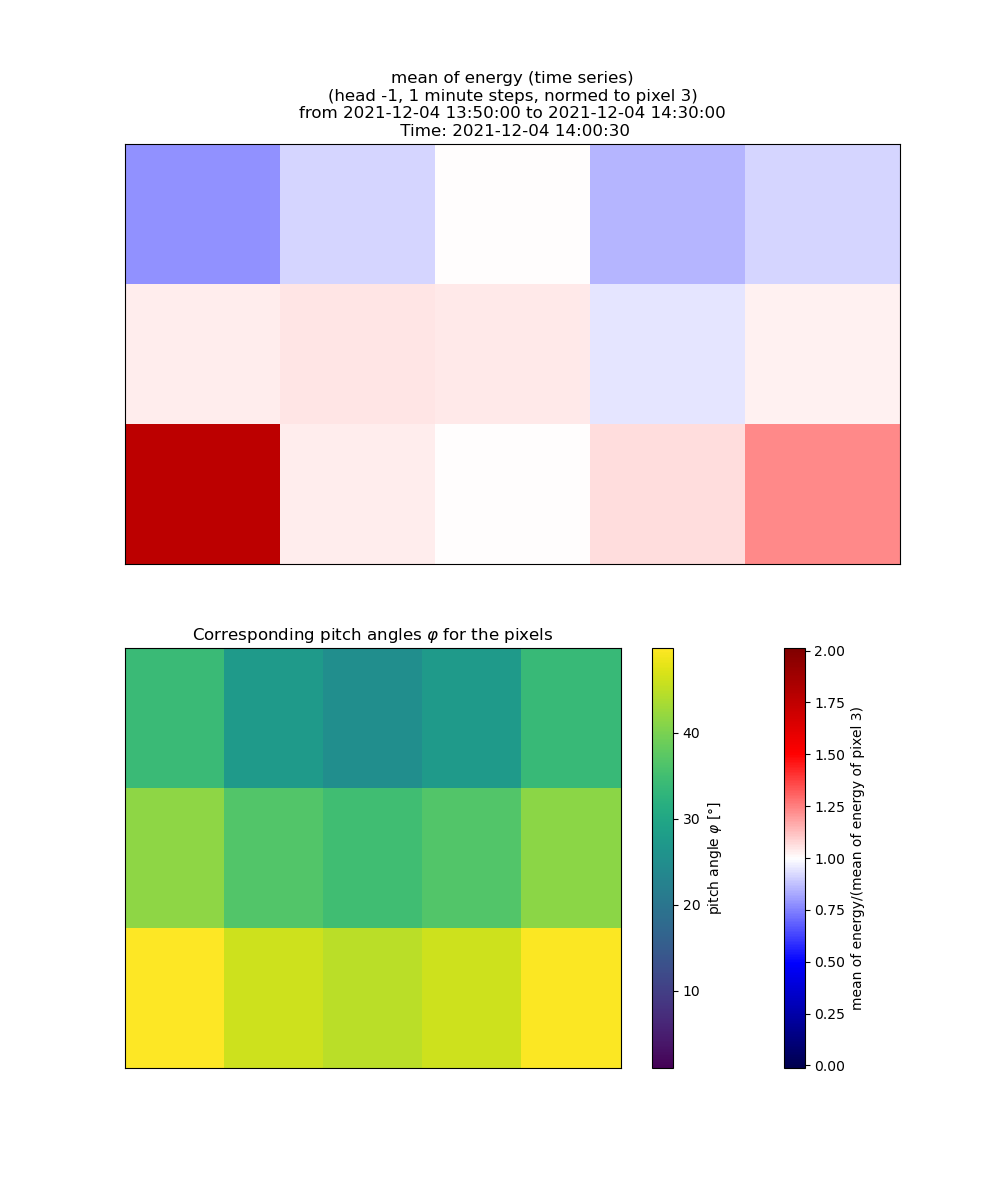
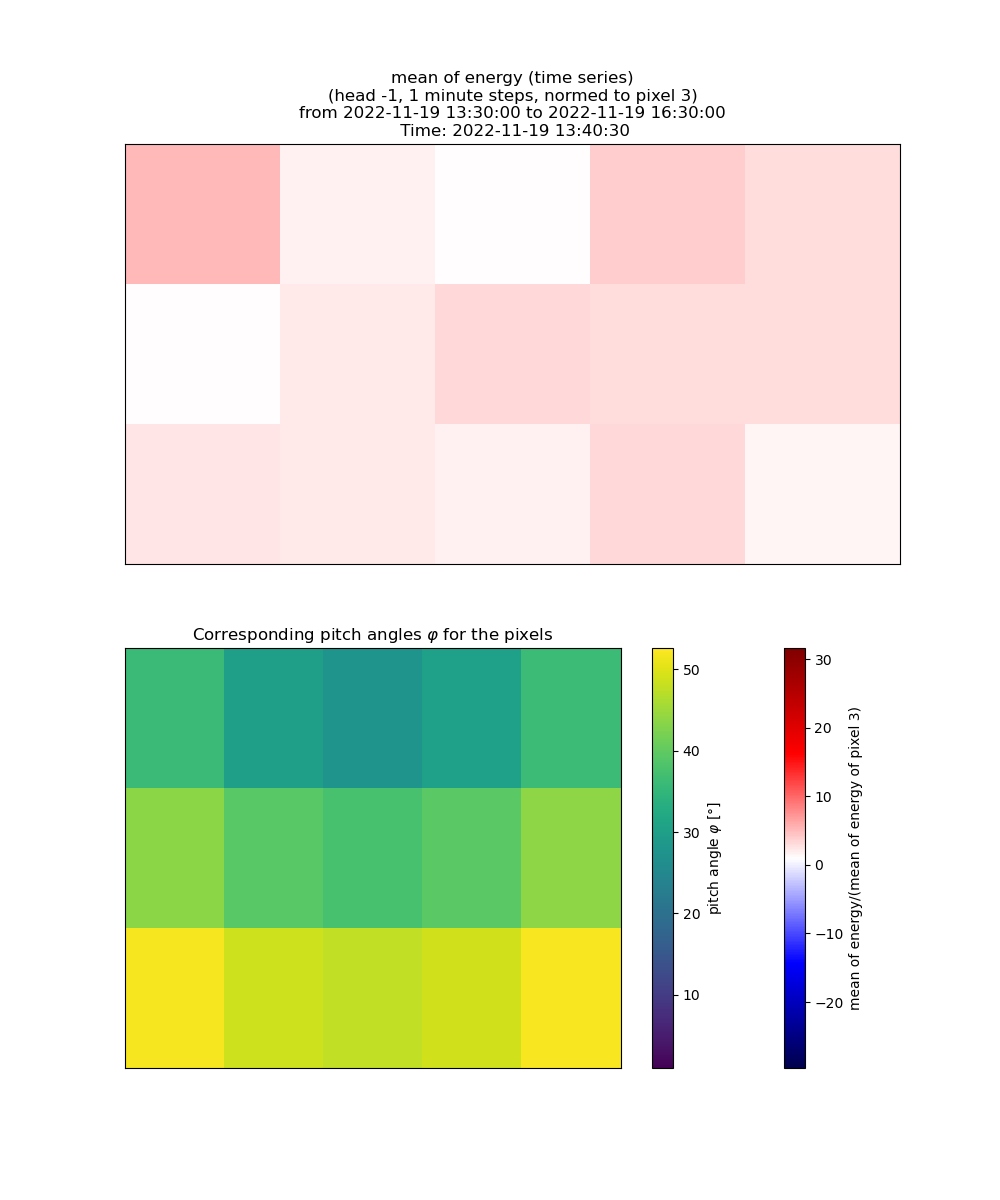
I have taken a look at different events

diff --git a/plausibility_pw.py b/plausibility_pw.py
@@ -31,35 +31,59 @@ ebins = np.array([  0.98 ,   2.144,   2.336,   2.544,   2.784,   3.04 ,   3.312,
 #     return -0.5*t + 20
 
 
-### 2022-12-4 ###
-dat = STEP(2022,11,12, magnet_default_path=True)
-period = [dt.datetime(2022,11,12,2),dt.datetime(2022,11,12,4)]
-def grenz(t):
-    return -0.5*t + 20
+### 2022-2-7 ###
+
+# dat = STEP(2022,2,7, magnet_default_path=True)
+# period=[dt.datetime(2022,2,7,20,15),dt.datetime(2022,2,7,21,15)]
+# grenz = None
+
+
+### 2022-11-12 ###
+
+# dat = STEP(2022,11,12, magnet_default_path=True)
+# period = [dt.datetime(2022,11,12,2,30),dt.datetime(2022,11,12,4)]
+# grenz = None
+
+
+### 2022-11-19 ###
+
+dat = STEP(2022,11,19, magnet_default_path=True)
+period = [dt.datetime(2022,11,19,13,30),dt.datetime(2022,11,19,16,30)]
+grenz = None
 
 
 
 
 
-pixel_means5 = dat.calc_energy_means(ebins=ebins,head=-1, period=period, grenzfunktion=grenz)
+# pixel_means5 = dat.calc_energy_means(ebins=ebins,head=-1, period=period, grenzfunktion=grenz)
 # pixel_means1 = dat.calc_energy_means(ebins=ebins,head=-1, period=period, grenzfunktion=grenz, window_width=1)
+
+### Achtung hier mal andere Normierung!!! ###
+pixel_means5 = dat.calc_energy_means(ebins=ebins,head=-1, period=period, grenzfunktion=grenz, norm='ptmax')
 
 pw5, pw5_time = dat.calc_pw(period, window_width=5)
 # pw1 pw1_time = dat.calc_pw(period, window_width=1)
 
 
 
+
+
 ### Plot der Zeitreihe als STEP-Plot ###
 
 # dat.plot_ts(period=period, head=-1, save='plausibility_pw/2021_12_04/', norm='tmax',grenzfunktion=grenz)
-dat.plot_ts(period=period, head=-1, save='plausibility_pw/2022_11_12/', norm='tmax',grenzfunktion=grenz)
+# dat.plot_ts(period=period, head=-1, save='plausibility_pw/2022_02_07/', norm='ptmax',grenzfunktion=grenz)
+# dat.plot_ts(period=period, head=-1, save='plausibility_pw/2022_11_12/', norm='tmax',grenzfunktion=grenz)
+dat.plot_ts(period=period, head=-1, save='plausibility_pw/2022_11_19/', norm='ptmax',grenzfunktion=grenz)
 
 
 
 ### Plot der Verteilung von Energiemittelwert und Pitchwinkel ###
 
 # dat.distribution_ring('time_series_energy_means_pw_2021_12_04','mean of energy (time series)',head=-1,window_width=1,norm='tmax',save='plausibility_pw/2021_12_04/',period=period,grenzfunktion=grenz,below=True,close=True)
-dat.distribution_ring('time_series_energy_means_pw_2022_11_12','mean of energy (time series)',head=-1,window_width=1,norm='tmax',save='plausibility_pw/2022_11_12/',period=period,grenzfunktion=grenz,below=True,close=True)
+# dat.distribution_ring('time_series_energy_means_pw_2022_02_07','mean of energy (time series)',head=-1,window_width=1,norm='ptmax',save='plausibility_pw/2022_02_07/',period=period,grenzfunktion=grenz,below=True,close=True)
+# dat.distribution_ring('time_series_energy_means_pw_2022_11_12','mean of energy (time series)',head=-1,window_width=1,norm='tmax',save='plausibility_pw/2022_11_12/',period=period,grenzfunktion=grenz,below=True,close=True)
+dat.distribution_ring('time_series_energy_means_pw_2022_11_19','mean of energy (time series)',head=-1,window_width=1,norm='ptmax',save='plausibility_pw/2022_11_19/',period=period,grenzfunktion=grenz,below=True,close=True)
+
 
 
 ### Plots für Pixel mit ähnlichen Pitchwinkeln: ###
@@ -81,7 +105,10 @@ def compare_opposing_pixels(dir):
     
 
 # compare_opposing_pixels('2021_12_04')
-compare_opposing_pixels('2022_11_12')
+# compare_opposing_pixels('2022_02_07')
+# compare_opposing_pixels('2022_11_12')
+compare_opposing_pixels('2022_11_19')
+
 
 
 # dat.pixel_comparison(pixel_means1, pw1, pw1_time, 'plausibility_pw/comparison_1_minutes_pixel_1_5.png', 1, 5)

diff --git a/STEP.py b/STEP.py
@@ -617,7 +617,8 @@ class STEP():
         ax.plot(pixel_means[0],pixel_means[pixel1],marker='x',label=f'energy mean of pixel {pixel1}')
         ax.plot(pixel_means[0],pixel_means[pixel2],marker='x',label=f'energy mean of pixel {pixel2}')
         
-        energy2_corrected = self.energy_correction(pixel_means[pixel2],pw[pixel1-1],pw[pixel2-1])[0]
+        # Übergebe willkürliche Fehler, da ich diese eh nicht brauche.
+        energy2_corrected = self.energy_correction(pixel_means[pixel2],pw[pixel1-1],pw[pixel2-1],2,2)[0]
         
         ax.plot(pixel_means[0],energy2_corrected,marker='x',label=f'corrected energy mean of pixel {pixel2}')
         
